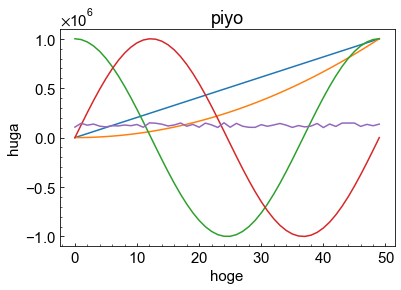
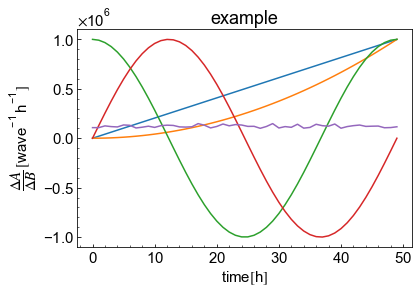
docs :pencil:

diff --git a/README.md b/README.md
@@ -21,7 +21,10 @@ from src.my_plt import Subplot  # Noqa
 
 
 ```python
-with Subplot(xlabel="hoge",ylabel="huga",title="piyo",show_results=True)as p:
+xlabel="time$[\\mathdefault{h}]$"
+ylabel="$\\dfrac{\\Delta A}{\\Delta B}\\,[\\mathdefault{wave^{-1}\\,h^{-1}}]$"
+title="example"
+with Subplot(xlabel=xlabel,ylabel=ylabel,title=title,show_results=True)as p:
     for i, coln in enumerate(df.columns):
         p.ax.plot(df.index, df[coln] * 1e6, label=coln)
     p.fig.savefig("Path to save images")
